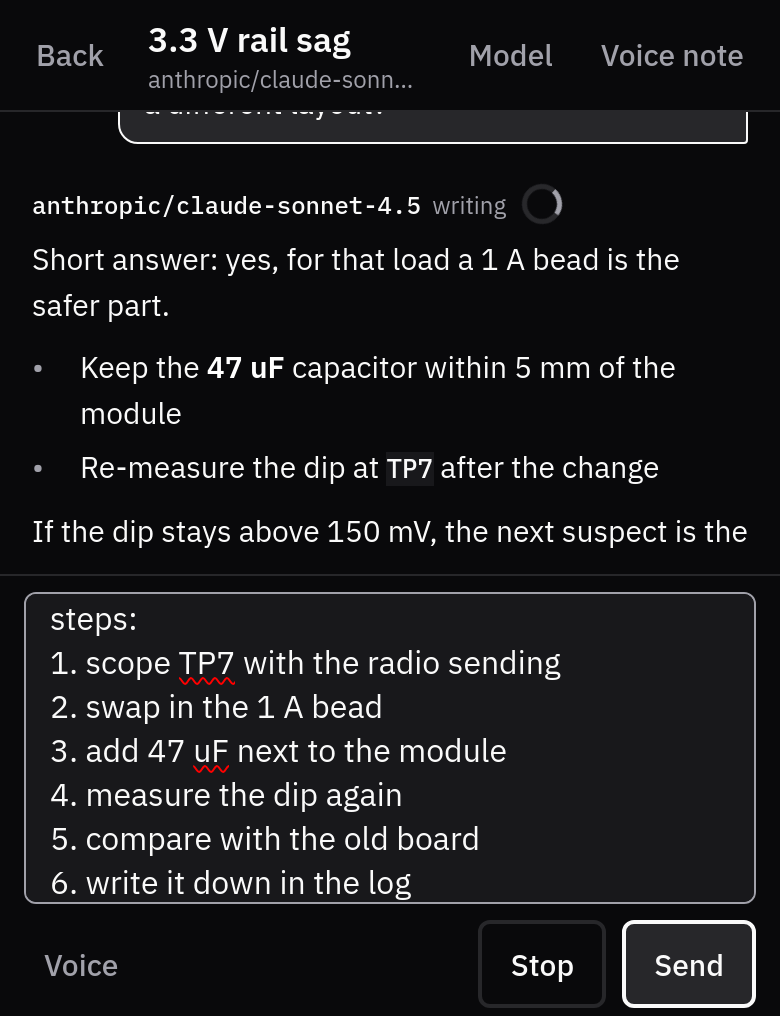
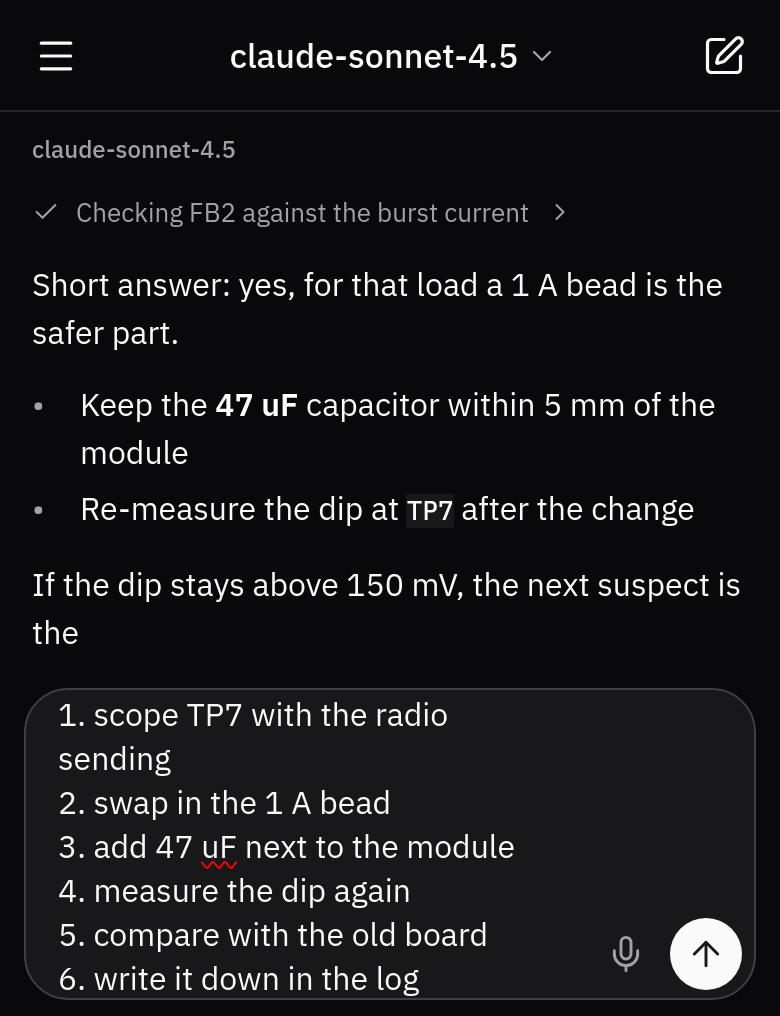
Show the drawer, the new conversation and the answer's tools in the README and its screenshots.
Claude-Session: https://claude.ai/code/session_0179K8nSMsnXRpdhdvLgXKQJ

diff --git a/README.md b/README.md
@@ -9,22 +9,25 @@ server - yours, your team's, anyone's - and the app remembers the last few.
 Then you sign in with the same e-mail address and password as on the web.
 
 <p>
-  <img src="docs/screenshots/01-server.png" width="200" alt="Choosing a server">
-  <img src="docs/screenshots/10-login.png" width="200" alt="Signing in">
-  <img src="docs/screenshots/03-login-error.png" width="200" alt="Signing in, with the server's error">
-  <img src="docs/screenshots/04-chats.png" width="200" alt="Conversation list">
-  <img src="docs/screenshots/05-chat.png" width="200" alt="A conversation with an answer being written">
+  <img src="docs/screenshots/04-new-chat.png" width="200" alt="A new conversation: greeting and example questions">
+  <img src="docs/screenshots/05-drawer.png" width="200" alt="The drawer: search, New chat, conversations by day, the account">
+  <img src="docs/screenshots/06-chat.png" width="200" alt="A conversation with the tools it ran and a code block">
+  <img src="docs/screenshots/07c-chat-streaming.png" width="200" alt="An answer being written">
 </p>
 <p>
-  <img src="docs/screenshots/06-voice-recording.png" width="200" alt="Recording a voice message">
-  <img src="docs/screenshots/07-voice-review.png" width="200" alt="Reviewing a voice note before sending">
+  <img src="docs/screenshots/07-chat-waiting.png" width="200" alt="Waiting for the first words">
   <img src="docs/screenshots/08-model-picker.png" width="200" alt="Choosing the model">
-  <img src="docs/screenshots/09-account.png" width="200" alt="Account, voice language, sign out">
+  <img src="docs/screenshots/09-account.png" width="200" alt="Account, from the drawer">
+  <img src="docs/screenshots/14-chat-actions.png" width="200" alt="Rename, archive or delete a conversation">
 </p>
 <p>
-  <img src="docs/screenshots/11-chat-typing.png" width="200" alt="A long message being typed: the box grows to six lines">
   <img src="docs/screenshots/12-chat-keyboard.png" width="200" alt="With the keyboard open: the composer and the newest lines stay above it">
-  <img src="docs/screenshots/13-chat-scrolled-up.png" width="200" alt="Scrolled up while an answer is written, with the way back to the latest">
+  <img src="docs/screenshots/16-voice-review.png" width="200" alt="Reviewing a voice note before sending">
+  <img src="docs/screenshots/10-login.png" width="200" alt="Signing in">
+  <img src="docs/screenshots/01-server.png" width="200" alt="Choosing a server">
+</p>
+<p>
+  <img src="docs/screenshots/21-wide-chat.png" width="520" alt="On a wide screen the drawer is a column that stays open">
 </p>
 
 ## What it does
@@ -35,24 +38,49 @@ Then you sign in with the same e-mail address and password as on the web.
   The last five servers are listed for one-tap switching.
 - **Sign in** with e-mail and password. A server running without sign-in
   (local mode) goes straight to the chat.
-- **Chat**: the workspace's conversations (pull to refresh), open one, read
-  it with Markdown (headings, lists, code, links), send a line and watch the
-  answer being written, stop it, start a new conversation, choose the model.
-  A conversation in which someone else's answer is being written is followed
-  live. The list follows the newest line and the answer as it is written,
-  unless you scroll up to read; then **Latest** brings you back.
-- **Typing**: the box sits right above the keyboard, the conversation shrinks
-  above it with the newest lines in view, and the box grows with what you
-  write up to six lines (16 px text), then scrolls inside.
-- **Voice**: the composer's Voice button records, the server transcribes
+- **Straight into a conversation.** The app opens on the conversation that
+  was open last, or on a new one: the mark, a greeting and four example
+  questions - the ones the server writes from your own projects
+  (`GET /api/cc/ideas`), or hand-written ones when it has none. A question
+  tapped goes into the box to edit or send. A new conversation is made on
+  the server with its first line.
+- **The drawer** slides in from the left (the button at the top left, or a
+  swipe to the right), follows the finger and springs open or shut; the
+  conversation dims behind it. A tap on the dimmed side, a swipe to the
+  left or Back puts it away. At its top: search (titles at once, what was
+  said in them from the server) and New chat; then the conversations by
+  Pinned, Today, Yesterday, Previous 7 days and Older, one line each, the
+  open one in heavier, brighter ink (pull to refresh). A long press on one
+  offers Rename, Archive and Delete (into the server's trash). At the
+  bottom, the account opens Account: the server, the voice language,
+  Change server and Sign out. On a screen 860 px or wider the drawer is a
+  column that stays open.
+- **A conversation**: the model's name at the top, tapped to choose another;
+  New chat at the right. Your lines are bubbles on the right; answers run the
+  full width under the model's name, with Markdown (headings, lists, code
+  with a Copy button, links) and the tools the answer ran as compact rows
+  where they ran, each opening to what it found. A long press on a line
+  copies it or opens it to select a part. Your line shows the moment it is
+  sent, three dots wait for the first words, and the answer is written in
+  place - laid out as it will stay, so nothing jumps when it is done. A
+  conversation in which someone else's answer is being written is followed
+  live. The list follows the newest line unless you scroll up to read; then
+  a round arrow brings you back.
+- **Typing**: a rounded box floats right above the keyboard, the conversation
+  shrinks above it with the newest lines in view, and the box grows with
+  what you write up to six lines (16 px text), then scrolls inside. Its round
+  button is Send when there is text, Stop while an answer is written, and
+  Voice note otherwise. Sending and New chat give a light haptic tick.
+- **Voice**: the microphone in the box records, the server transcribes
   (`POST /api/voice/transcribe`), and the text lands in the box to read and
-  correct - nothing is sent by itself. Voice note (in a conversation's top
-  bar) records, shows the transcript for review, then sends it. The language
-  is Auto, Türkçe or English (Account).
-- **Sign out**, or change server, from Account.
+  correct - nothing is sent by itself. Voice note (the round button, with
+  nothing typed) records, shows the transcript for review, then sends it.
+  The language is Auto, Türkçe or English (Account).
+- **Back** (Android) closes a sheet, then the drawer, then goes back to the
+  conversation open before, then leaves the app.
 
-The device keeps only the server list, the last e-mail address per server and
-the voice language. Never a password. The session is the server's own
+The device keeps only the server list, the last e-mail address and the last
+open conversation per server, and the voice language. Never a password. The session is the server's own
 HttpOnly cookie, kept by the platform's cookie store.
 
 ## Run it
@@ -118,11 +146,12 @@ npm run check      # all three
 ```
 
 Screenshots in `docs/screenshots` are made with `scripts/shots.sh` (headless
-Chrome in Docker at 390 x 844, against the made-up server; with
+Chrome in Docker at 390 x 844, and 900 px wide for the side column, against
+the made-up server, which also runs tools and writes an answer slowly; with
 `TARGET=https://your.server` the server and sign-in screens are taken against
 that server, whose own wrong-password error is shown). The keyboard shot
 makes the window 336 px shorter, as a phone keyboard does, and checks the
-composer is still on screen. App icons are
+composer is still on screen. `SHOTS_DIR=/some/dir` writes them elsewhere. App icons are
 drawn by `scripts/make-icons.js` from the web app's section mark.
 
 ### How it talks to the server
@@ -131,8 +160,9 @@ drawn by `scripts/make-icons.js` from the web app's section mark.
 |---|---|
 | Is it Workbench? | `GET /api/health`, `GET /api/auth/state` |
 | Sign in / out | `POST /api/auth/login` `{email, password}` (sets `redline_session`), `POST /api/auth/logout` |
-| Conversations | `GET /api/cc/chats`, `POST /api/cc/chats`, `GET /api/cc/chats/{id}`, `PATCH .../{id}` (model) |
-| Send and stream | `POST /api/cc/chats/{id}/messages` answers with `text/event-stream`: `user`, `thinking`, `text` (with `at`), `error`, `done`, `title`; `202` JSON when the line was queued |
+| Conversations | `GET /api/cc/chats` (`q=` searches what was said), `POST /api/cc/chats`, `GET /api/cc/chats/{id}`, `PATCH .../{id}` (model, `title`, `archived`), `DELETE .../{id}` (into the trash) |
+| Example questions | `GET /api/cc/ideas?lang=en\|tr` (`items`, `source`, `start`: the model a new conversation begins with) |
+| Send and stream | `POST /api/cc/chats/{id}/messages` answers with `text/event-stream`: `user`, `thinking`, `text` (with `at`), `steps` (the tools run so far), `error`, `done`, `title`; `202` JSON when the line was queued |
 | Follow someone's answer | `GET /api/cc/chats/{id}/live` (`hello`, `start`, `text`, ..., `end`, `bye`) |
 | Stop | `POST /api/cc/chats/{id}/stop` |
 | Models | `GET /api/llm/settings` (providers with a key), `GET /api/llm/models?provider=` |
@@ -151,9 +181,10 @@ src/
   api/                  server address, HTTP client, SSE reader, types
   state/session.tsx     server -> sign-in -> app
   storage/prefs.ts      recent servers, last e-mail, voice language
-  screens/              Server, Login, ChatList, Chat
-  components/           Markdown, MessageItem, Composer, RecordingBar, sheets, controls
-  lib/                  Markdown parser, answer-stream reducer, times
+  screens/              Server, Login, Workspace (drawer + conversation), Chat
+  components/           Drawer, DrawerPanel, Markdown, MessageItem, Composer, RecordingBar,
+                        sheets and dialogs, icons (Lucide), controls
+  lib/                  Markdown parser, answer-stream reducer, day groups, tool steps, times
   voice/                recorder hook and its pure helpers
   theme/tokens.ts       Spartan Dark, copied from the web app's styles.css
 scripts/                dev proxy, screenshots, Android build
@@ -163,17 +194,23 @@ scripts/                dev proxy, screenshots, Android build
 
 The theme is the web app's Spartan Dark token for token
 (`src/theme/tokens.ts`, from redline-studio's `frontend/src/styles.css`), set
-in IBM Plex Sans and Plex Mono like the web app. Flat surfaces with 1 px
-hairlines; a chosen option is shown by weight and ink, not a fill; no coloured
-stripes, no emoji; recording is a small red dot and a timer. The wordmark is
-the web app's section mark (a vector, `components/Mark.tsx`) beside the name.
+in IBM Plex Sans and Plex Mono like the web app. Type: titles 17-20, body 16,
+meta 12-13. Flat surfaces with 1 px hairlines; a chosen option or the open
+conversation is shown by weight and ink, not a fill; no coloured stripes, no
+emoji; recording is a small red dot and a timer. Icons are Lucide line icons
+(`components/icons.ts`), the same family of plain line drawings as the web
+app, drawn as vectors. The wordmark is the web app's section mark (a vector,
+`components/Mark.tsx`) beside the name.
 
 Every screen keeps a 16 px side gutter and the safe-area insets (status bar,
 cutout, gesture bar); controls are at least 44 px tall. Motion is short and
 moves only opacity and transform: the native splash (the mark on the theme's
-ground) fades into the first screen, a conversation slides in 12 px from the
-right in 220 ms, sheets rise in 180 ms - and with the system's reduced-motion
-setting on, none of it moves (`components/Appear.tsx`).
+ground) fades into the first screen, the drawer follows the finger and
+settles in a spring without overshoot (240 ms when opened by its button), its
+rows come in a little behind its edge, a conversation fades in, lines and
+the answer fade in in 160 ms, sheets rise in 180 ms - and with the system's
+reduced-motion setting on, none of it moves (`components/Appear.tsx`,
+`components/Drawer.tsx`, `components/motion.ts`).
 
 ### Keyboard
 
